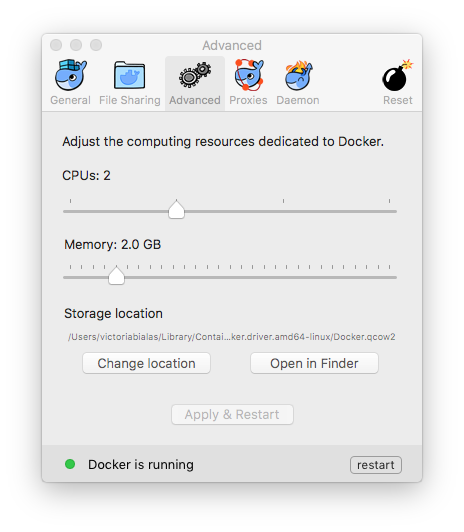
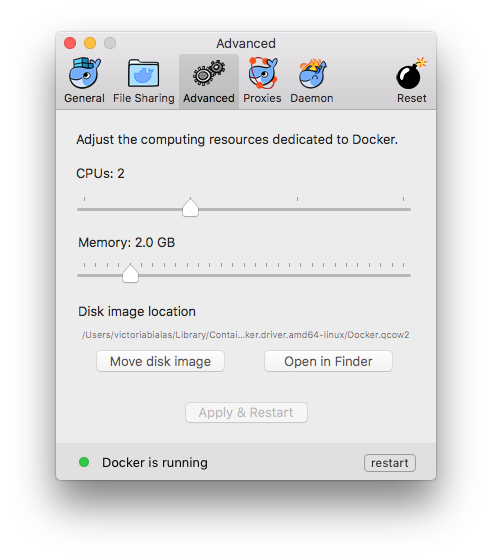
updated 'where to go next' x-refs to tutorials
updates for new advanced settings UI w/disk image labels d4mac

reformatted what the install includes lists in intros

copyedits

Changed region(s): [[0.0905, 0.0602, 0.9353, 0.9323], [0.3922, 0.7218, 0.6034, 0.782]]

diff --git a/docker-for-mac/index.md b/docker-for-mac/index.md
@@ -71,36 +71,38 @@ channels, see the [FAQs](/docker-for-mac/faqs.md#stable-and-beta-channels).
   [Docker for Mac vs. Docker Toolbox](docker-toolbox.md) to understand the
   impact of this installation on your existing setup, how to set your environment
   for Docker for Mac, and how the two products can coexist.
-
+<p />
 * **Relationship to Docker Machine**: Installing Docker for Mac does not affect
   machines you created with Docker Machine. You'll get the option to copy
   containers and images from your local `default` machine (if one exists) to the
-  new Docker for Mac [HyperKit](https://github.com/docker/HyperKit/)"> VM. When
+  new Docker for Mac [HyperKit](https://github.com/docker/HyperKit/)" VM. When
   you are running Docker for Mac, you do not need Docker Machine nodes running
   at all locally (or anywhere else). With Docker for Mac, you have a new, native
   virtualization system running (HyperKit) which takes the place of the
   VirtualBox system. To learn more, see
   [Docker for Mac vs. Docker Toolbox](docker-toolbox.md).
-
+<p />
 * **System Requirements**: Docker for Mac will launch only if all of these
   requirements are met.
 
-	- Mac must be a 2010 or newer model, with Intel's hardware support for memory
+  <p />
+
+  - Mac must be a 2010 or newer model, with Intel's hardware support for memory
     management unit (MMU) virtualization; i.e., Extended Page Tables (EPT) and
     Unrestricted Mode.
-
+  <p />
   - OS X El Capitan 10.11 and newer macOS releases are supported. At a minimum,
     Docker for Mac requires macOS Yosemite 10.10.3 or newer, with the caveat
     that going forward 10.10.x is a use-at-your-own risk proposition.
-
+  <p />
   - Starting with Docker for Mac stable release 1.13 (upcoming), and concurrent
     Beta releases, we will no longer address issues specific to OS X Yosemite
     10.10. In future releases, Docker for Mac could stop working on OS X Yosemite
     10.10 due to the deprecated status of this OS X version. We recommend
     upgrading to the latest version of macOS.
-
+  <p />
   - At least 4GB of RAM
-
+  <p />
   - VirtualBox prior to version 4.3.30 must NOT be installed (it is incompatible
     with Docker for Mac)
 
@@ -213,8 +215,7 @@ docker-machine version 0.9.0-rc2, build 7b19591
     `docker rm -f webserver`. This will remove the container, but not the
     `nginx` image. You can list local images with `docker images`. You might
     want to keep some images around so that you don't have to pull them again
-    from Docker Hub. To remove an image you no longer need, use `docker rmi`
-    followed by an image ID or image name. For example, `docker rmi nginx`.
+    from Docker Hub. To remove an image you no longer need, use `docker rmi` followed by an image ID or image name. For example, `docker rmi nginx`.
 
 **Want more example applications?** - For more example walkthroughs that include
 setting up  services and databases in Docker Compose, see
@@ -305,6 +306,17 @@ lower (to `1`) if you want Docker for Mac to use less memory.
 
 You can specify the **storage location** of the Linux volume; i.e., where
 containers and images are stored.
+
+##### Disk image location (Beta)
+
+Starting with Beta 39, the labels on this dialog were updated as follows.
+
+*  **Storage location** is renamed to **Disk image location**
+*  **Change location** button is renamed to **move disk image**
+
+![Beta Advanced settings](images/settings-advanced-beta.png)
+
+
 
 
 ### HTTP proxy settings
@@ -456,13 +468,13 @@ options at the bottom of each docs page.
 
 ## Where to go next
 
-* Try out the [Getting Started with Docker](/engine/getstarted/index.md) tutorial.
+* Try out the tutorials and sample app walkthroughs at [Learn Docker](/learn.md), including:
 
-* Follow up by working through the voting app example to learn how to
-[define and deploy a Docker stack](/engine/getstarted-voting-app/index.md) to a
-[swarm](/engine/swarm/index.md). This example shows how to deploy multiple
-containers as services and use new
-[Compose Version 3](/compose/compose-file.md#version-3) features.
+  *  Learn Docker basics in [Getting Started with Docker](/engine/getstarted/index.md)
+
+  * Learn how to [define and deploy a Docker stack to a swarm](/engine/getstarted-voting-app/index.md)
+  (deploy multiple containers as services and use new
+    Compose Version 3 features)
 
 * Dig in deeper with [Docker Labs](https://github.com/docker/labs/) example
   walkthroughs and source code.

diff --git a/docker-for-windows/index.md b/docker-for-windows/index.md
@@ -334,8 +334,7 @@ The next few steps take you through some examples. These are just suggestions fo
     `docker rm -f webserver`. This will remove the container, but not the
     `nginx` image. You can list local images with `docker images`. You might
     want to keep some images around so that you don't have to pull them again
-    from Docker Hub. To remove an image you no longer need, use `docker rmi
-    <imageID>|<imageName>`. For example, `docker rmi nginx`.
+    from Docker Hub. To remove an image you no longer need, use `docker rmi` followed by an image ID or image name. For example, `docker rmi nginx`.
 
 **Want more example applications?** - For more example walkthroughs that include
 setting up services and databases with Docker Compose, see
@@ -760,19 +759,18 @@ If you want to go back to using Docker Toolbox, you have to disable the Hyper-V 
 
 ## Where to go next
 
-* Try out the [Getting Started with Docker](/engine/getstarted/index.md) tutorial.
+* Try out the tutorials and sample app walkthroughs at [Learn Docker](/learn.md), including:
 
-* Follow up by working through the voting app example to learn how to
-  [define and deploy a Docker stack](/engine/getstarted-voting-app/index.md) to a
-  [swarm](/engine/swarm/index.md). This example shows how to deploy multiple
-  containers as services and use new
-  [Compose Version 3](/compose/compose-file.md#version-3) features.
+  *  Learn Docker basics in [Getting Started with Docker](/engine/getstarted/index.md)
 
-* Dig in deeper with [Docker Labs](https://github.com/docker/labs/) example
-  walkthroughs and source code.
+  * Learn how to [define and deploy a Docker stack to a swarm](/engine/getstarted-voting-app/index.md)
+  (deploy multiple containers as services and use new
+    Compose Version 3 features)
 
-* For a summary of Docker command line interface (CLI) commands, see the
-  [Docker CLI Reference Guide](/engine/reference/commandline/docker.md).
+* Dig in deeper with [Docker Labs](https://github.com/docker/labs/) example walkthroughs and source code.
+
+* For a summary of Docker command line interface (CLI) commands,
+see the [Docker CLI Reference Guide](/engine/reference/commandline/docker.md).
 
 * Check out the blog post
   [Introducing Docker 1.13.0](https://blog.docker.com/2017/01/whats-new-in-docker-1-13/).

diff --git a/docker-for-mac/release-notes.md b/docker-for-mac/release-notes.md
@@ -269,6 +269,30 @@ events or unexpected unmounts.
 
 ## Beta Release Notes
 
+### Beta 39 Release Notes (2017-01-26 1.13.0-beta39)
+
+**Upgrades**
+
+- Linux kernel 4.9.5
+
+**New**
+
+- More options when moving disk image
+- Filesharing and daemon table empty fields are editable
+- DNS forwarder ignores responses from malfunctioning servers ([docker/for-mac#1025](https://github.com/docker/for-mac/issues/1025))
+- DNS forwarder send all queries in parallel, process results in order
+- DNS forwarder includes servers with zones in general searches ([docker/for-mac#997](https://github.com/docker/for-mac/issues/997))
+- Parses aliases from /etc/hosts ([docker/for-mac#983](https://github.com/docker/for-mac/issues/983))
+- Can resolve DNS requests via servers listed in the /etc/resolver directory on the host
+
+**Bug fixes and minor improvements**
+
+- Fix bug where update window hides when app not focused
+- Limit vCPUs to 16 ([docker/for-mac#1144](https://github.com/docker/for-mac/issues/1144))
+- Fix for swap not being mounted
+- Fix aufs xattr delete issue ([docker/docker#30245](https://github.com/docker/docker/issues/30245))
+
+
 ### Beta 38 Release Notes (2017-01-20 1.13.0-beta38)
 
 **Upgrades**

diff --git a/docker-for-windows/release-notes.md b/docker-for-windows/release-notes.md
@@ -258,6 +258,25 @@ We did not distribute a 1.12.4 stable release
 
 ## Beta Release Notes
 
+### Beta 39 Release Notes (2017-01-26 1.13.0-beta39)
+
+**Upgrades**
+
+- Linux kernel 4.9.5
+
+**New**
+
+- DNS forwarder ignores responses from malfunctioning servers
+- DNS forwarder send all queries in parallel, process results in order
+- DNS forwarder includes servers with zones in general searches
+- Significantly increased single-stream TCP throughput
+
+**Bug fixes and minor improvements**
+
+- Fix some timeout issues in port forwarding
+- Fix for swap not being mounted ([docker/for-win#403](https://github.com/docker/for-win/issues/403))
+- Fix aufs xattr delete issue ([docker/docker#30245](https://github.com/docker/docker/issues/30245))
+
 ### Beta 38 Release Notes (2017-01-20 1.13.0-beta38)
 
 **Upgrades**
